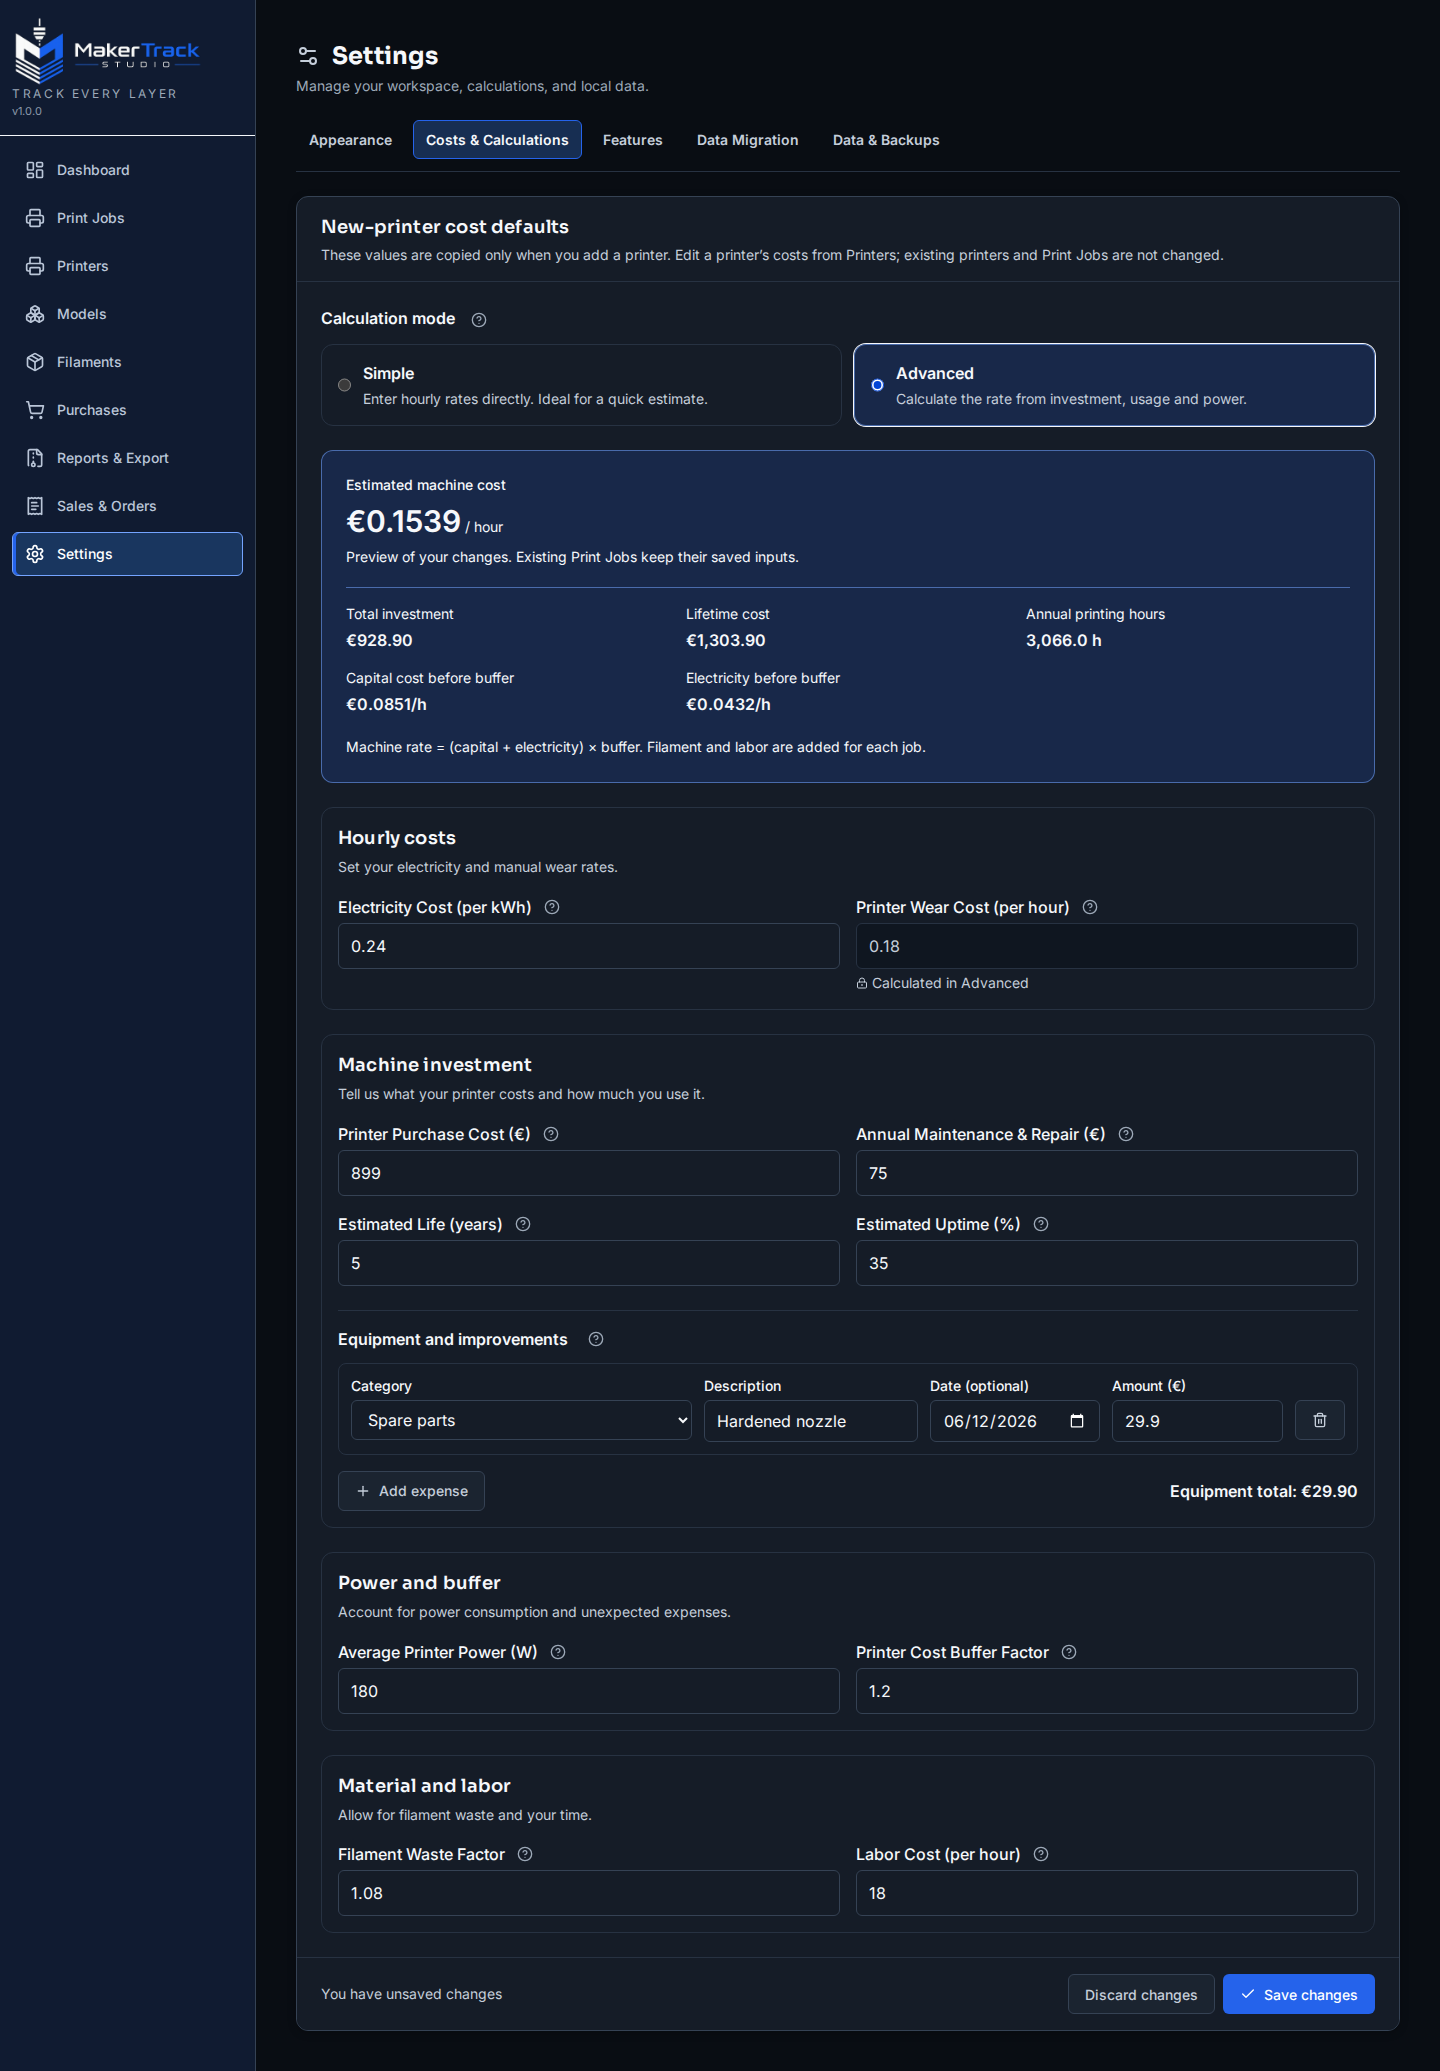
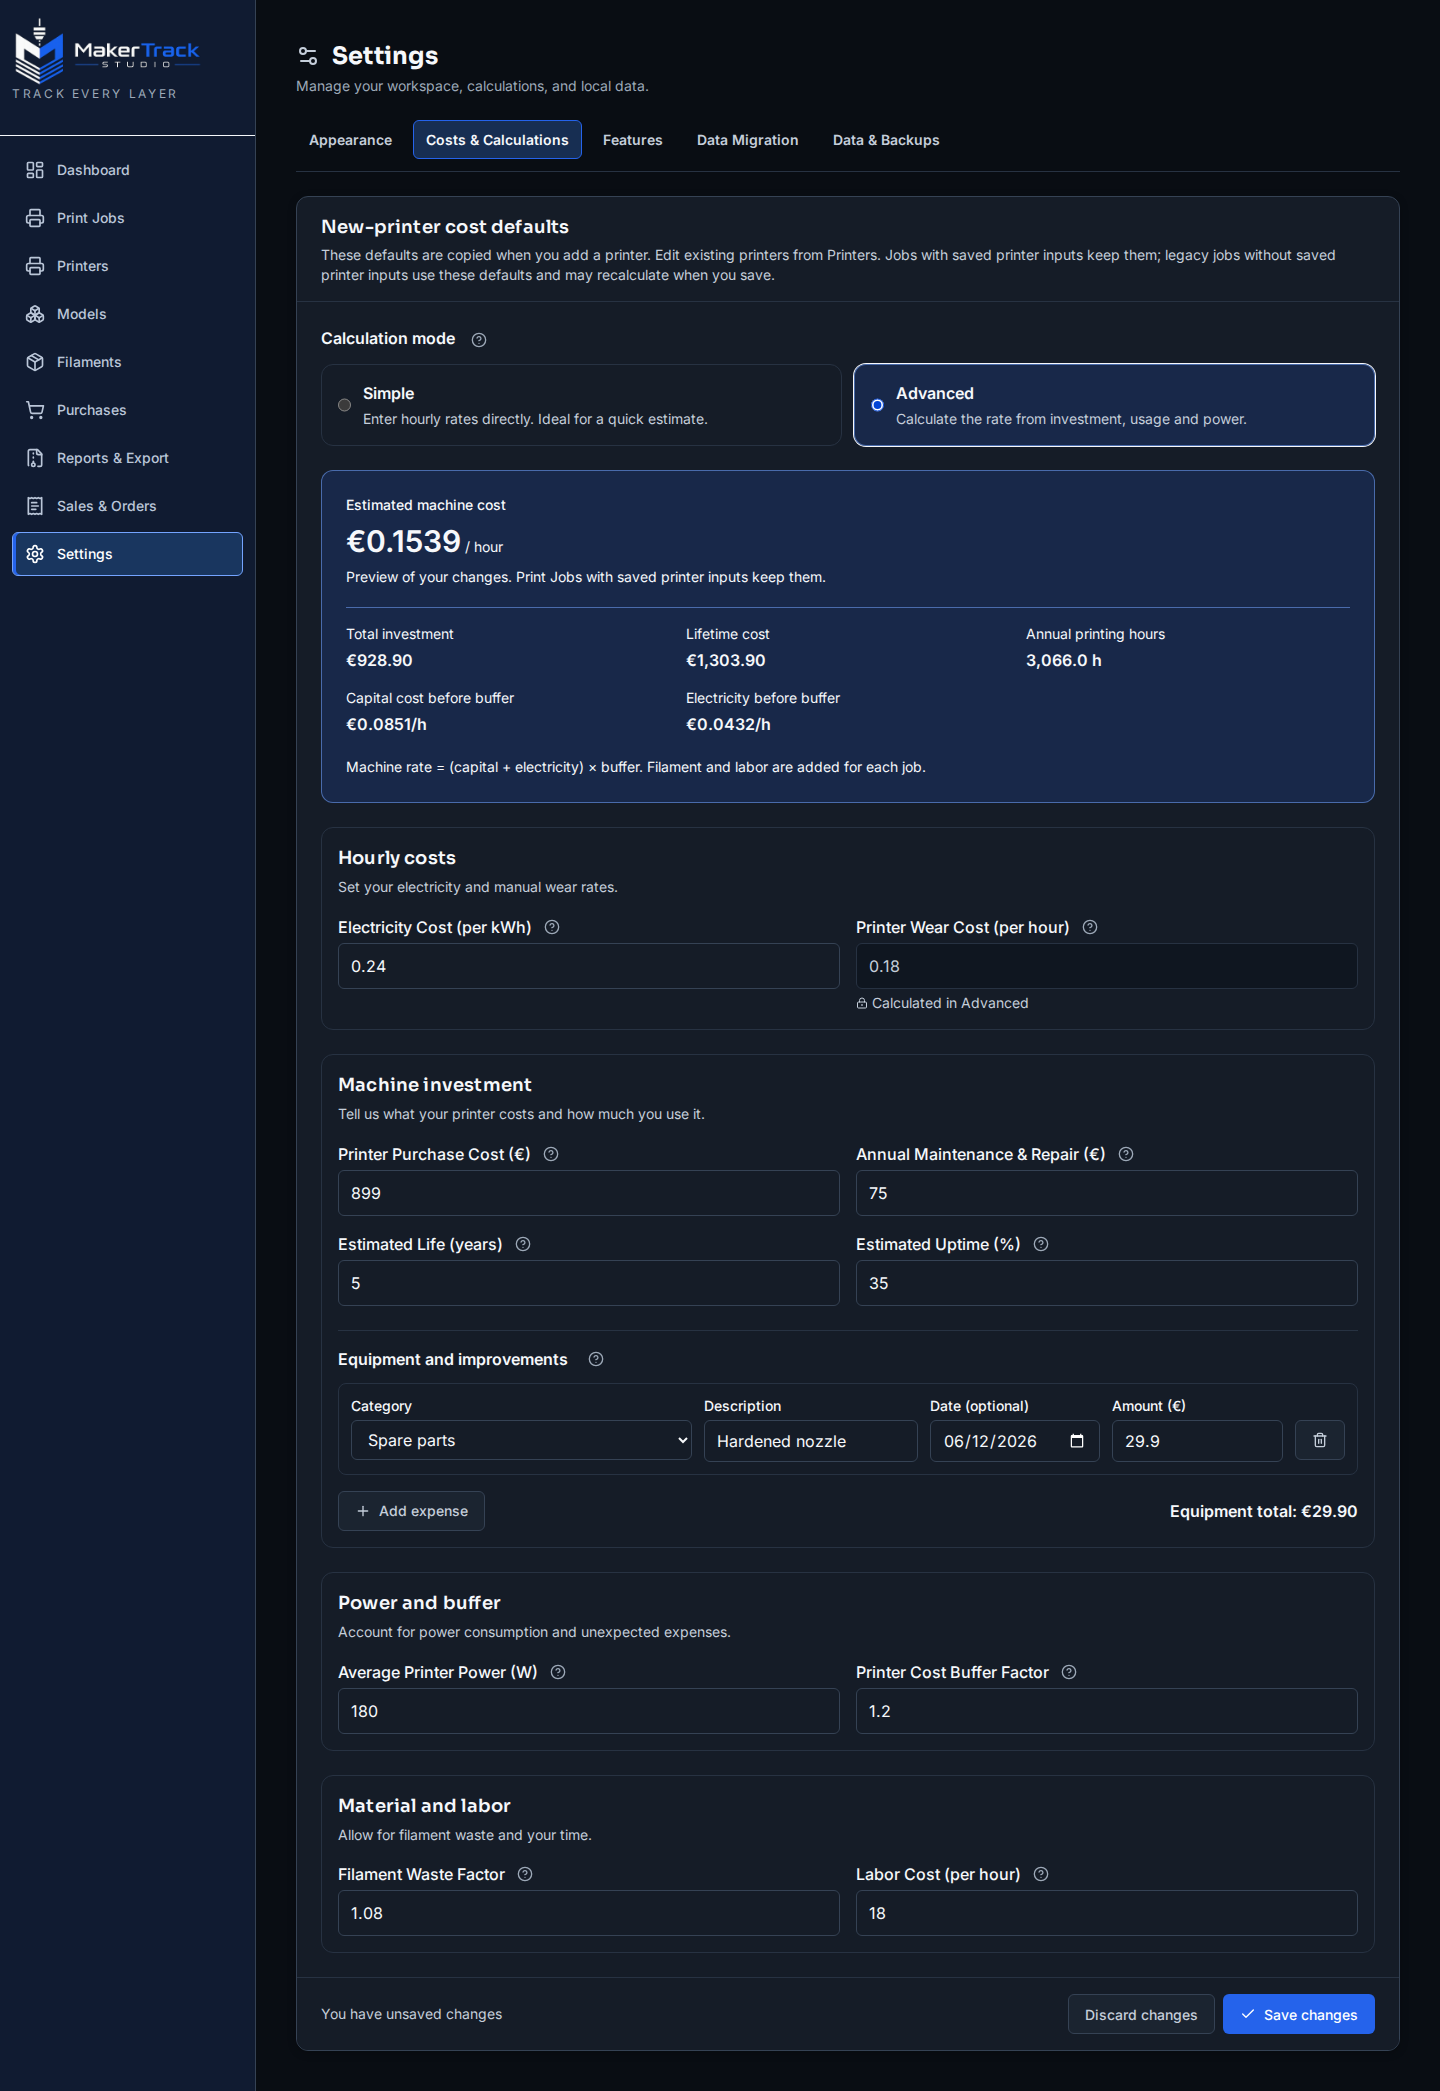
fix: clarify legacy job recalculation in cost settings help

diff --git a/apps/web/src/i18n/resources/pt-PT.js b/apps/web/src/i18n/resources/pt-PT.js
@@ -167,7 +167,7 @@ export default {
     breakdown: 'Discriminação de custos', filament: 'Custo do filamento:', electricity: 'Custo da eletricidade:', wear: 'Custo de desgaste:', labor: 'Custo de mão de obra:', total: 'Custo total:',
   },
   costSettings: {
-    preview: 'Pré-visualização do custo da máquina', estimated: 'Custo estimado da máquina', perHour: '/ hora', previewChanges: 'Pré-visualização das alterações.', savedSettings: 'Com base nas definições guardadas.', applyExisting: 'Guarde para aplicar às impressões existentes.', keepExisting: 'As impressões existentes mantêm os dados guardados.',
+    preview: 'Pré-visualização do custo da máquina', estimated: 'Custo estimado da máquina', perHour: '/ hora', previewChanges: 'Pré-visualização das alterações.', savedSettings: 'Com base nas definições guardadas.', applyExisting: 'Guarde para aplicar às impressões existentes.', keepExisting: 'As impressões com valores de impressora guardados mantêm-nos.',
     totalInvestment: 'Investimento total', lifetimeCost: 'Custo ao longo da vida útil', annualHours: 'Horas anuais de impressão', capitalBefore: 'Custo de capital antes da margem', electricityBefore: 'Eletricidade antes da margem',
     advancedFormula: 'Taxa da máquina = (capital + eletricidade) × margem de segurança.', simpleFormula: 'Taxa da máquina = desgaste manual + custo horário de eletricidade.', jobExtras: 'O filamento e a mão de obra são adicionados a cada impressão.',
     mode: 'Modo de cálculo', machineCalculation: 'Cálculo do custo da máquina', simple: 'Simples', simpleHelp: 'Introduza diretamente as taxas horárias. Ideal para uma estimativa rápida.', advanced: 'Avançado', advancedHelp: 'Calcule a taxa a partir do investimento, utilização e potência.',
@@ -197,7 +197,7 @@ export default {
   calculation: {
     previousCosts: 'Custos adicionais anteriores', maxExpenses: 'Máximo de 500 despesas', descriptionRequired: 'A descrição é obrigatória', maxCharacters: 'Máximo de 200 caracteres', validDate: 'Introduza uma data válida', totalMaximum: 'O total não pode exceder 1000000000',
     saved: 'Predefinições de custos guardadas', saveError: 'Não foi possível guardar todas as alterações. Os dados introduzidos continuam aqui. Tente guardar novamente; Descartar mantém os valores já guardados.', empty: 'Não foram encontradas entradas de configuração.',
-    title: 'Custos predefinidos de novas impressoras', help: 'Estes valores são copiados apenas ao adicionar uma impressora. Edite os custos de uma impressora em Impressoras; as impressoras e impressões existentes não são alteradas.',
+    title: 'Custos predefinidos de novas impressoras', help: 'Estes valores são copiados ao adicionar uma impressora. Edite impressoras existentes em Impressoras. As impressões com valores de impressora guardados mantêm-nos; as antigas sem esses valores usam estas predefinições e podem ser recalculadas ao guardar.',
     equipment: 'Equipamento e melhorias', equipmentHelp: 'Adicione melhorias, placas de impressão e outro equipamento ao modelo predefinido. O total é copiado para o investimento de uma nova impressora. Não volte a contar reparações já incluídas na manutenção anual. As datas são opcionais para despesas antigas.',
     noExpenses: 'Ainda não existem despesas de equipamento.', expenseDescription: 'Descrição', expenseCategory: 'Categoria', categories: { spareParts: 'Peças sobresselentes', additional: 'Adicionais', other: 'Outras' }, dateOptional: 'Data (opcional)', amount: 'Montante (€)', removeExpense: 'Remover despesa {{number}}', addExpense: 'Adicionar despesa', equipmentTotal: 'Total do equipamento',
     saving: 'A guardar alterações…', unsaved: 'Existem alterações por guardar', allSaved: 'Todas as alterações estão guardadas', discard: 'Descartar alterações',

diff --git a/apps/web/src/i18n/resources/en.js b/apps/web/src/i18n/resources/en.js
@@ -167,7 +167,7 @@ export default {
     breakdown: 'Cost Breakdown', filament: 'Filament Cost:', electricity: 'Electricity Cost:', wear: 'Wear Cost:', labor: 'Labor Cost:', total: 'Total Cost:',
   },
   costSettings: {
-    preview: 'Machine cost preview', estimated: 'Estimated machine cost', perHour: '/ hour', previewChanges: 'Preview of your changes.', savedSettings: 'Based on your saved settings.', applyExisting: 'Save to apply to existing print jobs.', keepExisting: 'Existing Print Jobs keep their saved inputs.',
+    preview: 'Machine cost preview', estimated: 'Estimated machine cost', perHour: '/ hour', previewChanges: 'Preview of your changes.', savedSettings: 'Based on your saved settings.', applyExisting: 'Save to apply to existing print jobs.', keepExisting: 'Print Jobs with saved printer inputs keep them.',
     totalInvestment: 'Total investment', lifetimeCost: 'Lifetime cost', annualHours: 'Annual printing hours', capitalBefore: 'Capital cost before buffer', electricityBefore: 'Electricity before buffer',
     advancedFormula: 'Machine rate = (capital + electricity) × buffer.', simpleFormula: 'Machine rate = manual wear + hourly electricity charge.', jobExtras: 'Filament and labor are added for each job.',
     mode: 'Calculation mode', machineCalculation: 'Machine cost calculation', simple: 'Simple', simpleHelp: 'Enter hourly rates directly. Ideal for a quick estimate.', advanced: 'Advanced', advancedHelp: 'Calculate the rate from investment, usage and power.',
@@ -197,7 +197,7 @@ export default {
   calculation: {
     previousCosts: 'Previous additional costs', maxExpenses: 'Maximum 500 expenses', descriptionRequired: 'Description is required', maxCharacters: 'Maximum 200 characters', validDate: 'Enter a valid date', totalMaximum: 'Total must not exceed 1000000000',
     saved: 'New-printer cost defaults saved', saveError: 'Could not save all changes. Your entries are still here. Retry to save the remaining changes; Discard keeps any values already saved.', empty: 'No configuration entries found.',
-    title: 'New-printer cost defaults', help: 'These values are copied only when you add a printer. Edit a printer’s costs from Printers; existing printers and Print Jobs are not changed.',
+    title: 'New-printer cost defaults', help: 'These defaults are copied when you add a printer. Edit existing printers from Printers. Jobs with saved printer inputs keep them; legacy jobs without saved printer inputs use these defaults and may recalculate when you save.',
     equipment: 'Equipment and improvements', equipmentHelp: 'Add upgrades, build plates and other equipment to the default template. Their total is copied into a new printer’s investment. Repairs already included in annual maintenance should not be counted again. Dates are optional for older expenses.',
     noExpenses: 'No equipment expenses yet.', expenseDescription: 'Description', expenseCategory: 'Category', categories: { spareParts: 'Spare parts', additional: 'Additional', other: 'Other' }, dateOptional: 'Date (optional)', amount: 'Amount (€)', removeExpense: 'Remove expense {{number}}', addExpense: 'Add expense', equipmentTotal: 'Equipment total',
     saving: 'Saving changes…', unsaved: 'You have unsaved changes', allSaved: 'All changes saved', discard: 'Discard changes',

diff --git a/apps/web/visual/catalog.screenshots.spec.js b/apps/web/visual/catalog.screenshots.spec.js
@@ -300,7 +300,15 @@ const scenarios = [
     slug: 'settings-appearance-pt', route: 'settings', locale: 'pt-PT', fullPage: true, prepare: (page) => expect(page.getByRole('heading', { name: 'Definições' })).toBeVisible(),
   },
   {
-    slug: 'settings-calculations', route: 'settings?section=calculations', fullPage: true, prepare: (page) => expect(page.getByRole('radio', { name: /Simple/ })).toBeVisible(),
+    slug: 'settings-calculations', route: 'settings?section=calculations', fullPage: true, prepare: async (page) => {
+      await expect(page.getByRole('radio', { name: /Simple/ })).toBeVisible();
+      await expect(page.getByText(/legacy jobs without saved printer inputs/)).toBeVisible();
+    },
+  },
+  {
+    slug: 'settings-calculations-pt', route: 'settings?section=calculations', locale: 'pt-PT', fullPage: true, prepare: async (page) => {
+      await expect(page.getByText(/as antigas sem esses valores usam estas predefinições/)).toBeVisible();
+    },
   },
   {
     slug: 'settings-features', route: 'settings?section=features', fullPage: true, prepare: (page) => expect(page.getByText('Track orders, selling prices, production allocation, revenue and profit.')).toBeVisible(),
@@ -309,6 +317,7 @@ const scenarios = [
     slug: 'settings-calculations-advanced', route: 'settings?section=calculations', fullPage: true, prepare: async (page) => {
       await page.getByRole('radio', { name: /Advanced/ }).click();
       await expect(page.getByText('Total investment')).toBeVisible();
+      await expect(page.getByText(/legacy jobs without saved printer inputs/)).toBeVisible();
     },
   },
   {

diff --git a/apps/web/src/pages/costSettings.js b/apps/web/src/pages/costSettings.js
@@ -1,7 +1,7 @@
 import i18n from '../i18n';
 
 export const COST_SETTINGS = {
-  machine_cost_mode: ['Machine cost calculation', 'Choose Simple to preserve existing hourly costs, or Advanced to calculate the hourly machine rate from the advanced inputs below. Changes recalculate all recorded jobs.', 'Calculation'],
+  machine_cost_mode: ['Machine cost calculation', 'Choose Simple to preserve existing hourly costs, or Advanced to calculate the hourly machine rate from the advanced inputs below. Jobs with saved printer inputs retain them; legacy unassigned jobs use current defaults.', 'Calculation'],
   printer_purchase_cost: ['Printer Purchase Cost (€)', 'Adv. Inputs C11. Total purchase price, including delivery and taxes.', 'Machine investment'],
   printer_upfront_cost: ['Additional Upfront Cost (€)', 'Adv. Inputs C12. Upgrades and other initial expenses. Added to the purchase price to calculate total investment.', 'Machine investment'],
   printer_annual_maintenance: ['Annual Maintenance & Repair (€)', 'Adv. Inputs C15. Estimated yearly maintenance. Multiplied by the lifetime in years and added to the investment. Enter your own estimate; it is not automatically 10% of the purchase price.', 'Machine investment'],

diff --git a/docs/screenshots/README.md b/docs/screenshots/README.md
@@ -11,7 +11,7 @@ The catalogue covers:
 
 - every primary page in light and dark mode;
 - every Settings section, including Features, the language selector and Simple and Advanced calculation modes;
-- the Portuguese (Portugal) Settings screen in both themes;
+- the Portuguese (Portugal) Settings screen and calculation-defaults guidance in both themes;
 - create forms, filters (including Print Jobs model search), filament type management and inline cost details;
 - physical printer profiles, default/archive states and printer-specific costs;
 - the Dashboard's recorded-expense breakdown, first-run migration entry point and the feature-gated Business Dashboard with completed-order financial metrics and recent Orders;
@@ -23,7 +23,7 @@ The catalogue covers:
 - the spreadsheet migration wizard with automatic mapping and validated preview;
 - keyboard focus and pointer hover in the primary navigation.
 
-The two calculation-settings images intentionally capture the complete scrollable
+The calculation-settings images intentionally capture the complete scrollable
 form. Most remaining images use the standard desktop viewport; the Sales compact
 scenarios use a 900px-wide viewport to verify laptop reflow. Selected narrow
 scenarios use a 390px-wide viewport to verify smaller-window navigation, forms,
